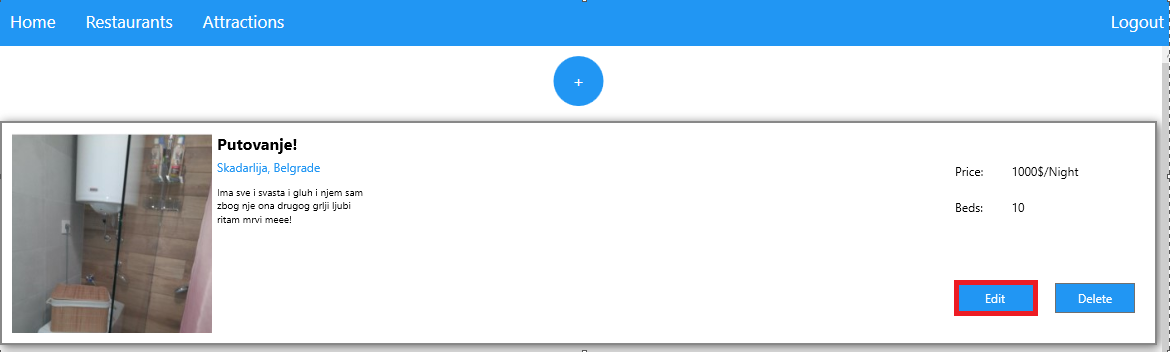
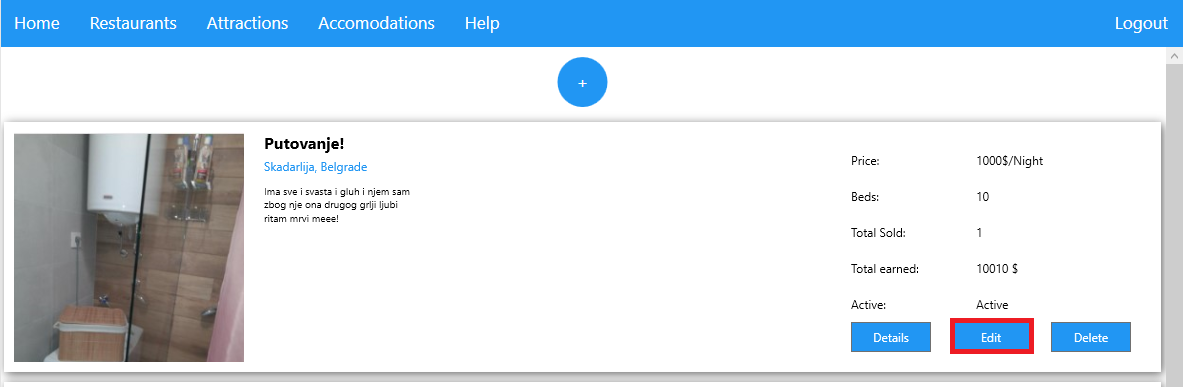
fix: Fixed tooltip annoyance

diff --git a/Help/agenthome.html b/Help/agenthome.html
@@ -55,7 +55,9 @@
                     <li>Start Date</li>
                     <li>End Date</li>
                     <li>Price</li>
-                    <li>Beds</li>
+                    <li>Total sold</li>
+                    <li>Total earned</li>
+                    <li>Active</li>
                 </ul>
                 <div>
                     <img src="Pictures/agenthome_screenshot.png" alt="Agent Home Page" width="700">
@@ -65,13 +67,21 @@
         <li>
             <span class="step-number">2.</span>
             <div>
+                <p>To see details about past ordered trips and statistics of sold attractions and restaurants in them, click on the <strong>Details</strong> button</p>
+                <p>This will open an advanced info window with a map.</p>
+                <img src="Pictures/agenthome_details_button.png" alt="Agent Home Details Button" width="700">
+            </div>
+        </li>
+        <li>
+            <span class="step-number">3.</span>
+            <div>
                 <p>To add a new trip, click on the <strong>Add</strong> button</p>
                 <p>This will open an empty form for adding a new trip.</p>
                 <img src="Pictures/agenthome_add_button.png" alt="Agent Home Add Button" width="700">
             </div>
         </li>
         <li>
-            <span class="step-number">3.</span>
+            <span class="step-number">4.</span>
             <div>
                 <p>To edit a trip, click on the <strong>Edit</strong> button associated with the trip.</p>
                 <p>This will open a form for editing the trip which edit button was clicked on.</p>
@@ -79,7 +89,7 @@
             </div>
         </li>
         <li>
-            <span class="step-number">4.</span>
+            <span class="step-number">5.</span>
             <div>
                 <p>To delete a trip, click on the <strong>Delete</strong> button associated with the trip.</p>
                 <p>This will open a confirmation dialog warning you about the consequences of deletion.</p>

diff --git a/MainWindow.xaml.cs b/MainWindow.xaml.cs
@@ -1,4 +1,3 @@
-
 using HCI.Frames;
 using HCI.Frames.Agemt;
 using HCI.Frames.Client;
@@ -12,7 +11,6 @@ using HCI.Models.Restaurants.Service;
 using HCI.Models.Trips.Model;
 using HCI.Models.Trips.Service;
 using HCI.Models.Users.DTO;
-
 using HCI.Models.Users.Model;
 using HCI.Models.Users.Service;
 using HCI.Navbars;
@@ -43,13 +41,9 @@ namespace HCI
         private ToolTip helpToolTip;
         private DispatcherTimer timer;
 
-
-
-
-
         private User user;
 
-        public MainWindow(IUserService userService, IPictureService pictureService,IAccommodationService accommodationService,ITripService tripService,IAttractionService attractionService,IRestaurantService restaurantService, ILocationService locationService ,IOrderedTripService orderedTripService)
+        public MainWindow(IUserService userService, IPictureService pictureService, IAccommodationService accommodationService, ITripService tripService, IAttractionService attractionService, IRestaurantService restaurantService, ILocationService locationService, IOrderedTripService orderedTripService)
         {
             user = null;
             SetWindowLogo();
@@ -73,8 +67,8 @@ namespace HCI
             contentControl.Navigate(loginForm);
             loginForm.LoginSuccess += LoginForm_LoginSuccess;
             loginForm.RegisterPressed += RegisterClicked;
-
         }
+
         private void SetWindowLogo()
         {
             try
@@ -83,10 +77,8 @@ namespace HCI
                 string assemblyPath = Assembly.GetExecutingAssembly().Location;
                 string solutionPath = Path.GetDirectoryName(Path.GetDirectoryName(Path.GetDirectoryName(assemblyPath)));
 
-
                 DirectoryInfo solutionDirectory = Directory.GetParent(solutionPath);
                 string parentFolderPath = solutionDirectory?.FullName;
-
 
                 string path = Path.Combine(parentFolderPath, logoPath);
 
@@ -103,43 +95,64 @@ namespace HCI
 
         private void MainWindow_MouseMove(object sender, MouseEventArgs e)
         {
-            timer.Stop();
-            timer.Start();
+            if (IsMouseDirectlyOverWindow())
+            {
+                timer.Stop();
+                timer.Start();
+                helpToolTip.IsOpen = false;
+            }
+            else
+            {
+                timer.Stop();
+                helpToolTip.IsOpen = false;
+            }
+        }
 
-            helpToolTip.IsOpen = false;
+        private bool IsMouseDirectlyOverWindow()
+        {
+            Point mousePos = Mouse.GetPosition(this);
+            return (mousePos.X >= 0 && mousePos.X < ActualWidth && mousePos.Y >= 0 && mousePos.Y < ActualHeight);
         }
 
         private void InitializeToolTip()
         {
             helpToolTip = new ToolTip();
-            helpToolTip.Content = "If you need help open the documentation\nUse the F1 key";
+            helpToolTip.Content = "If you need help, open the documentation. Use the F1 key.";
         }
 
         private void InitializeTimer()
         {
             timer = new DispatcherTimer();
-            timer.Interval = TimeSpan.FromSeconds(2);
+            timer.Interval = TimeSpan.FromSeconds(4);
             timer.Tick += Timer_Tick;
         }
 
         private void Timer_Tick(object sender, EventArgs e)
         {
             timer.Stop();
-            helpToolTip.IsOpen = true;
+            if (IsMouseDirectlyOverWindow() && IsActive)
+            {
+                helpToolTip.IsOpen = true;
+            }
+            else
+            {
+                helpToolTip.IsOpen = false;
+            }
         }
 
-        protected override void OnGotFocus(RoutedEventArgs e)
+        protected override void OnActivated(EventArgs e)
         {
-            base.OnGotFocus(e);
+            base.OnActivated(e);
             timer.Start();
         }
 
-        protected override void OnLostFocus(RoutedEventArgs e)
+        protected override void OnDeactivated(EventArgs e)
         {
-            base.OnLostFocus(e);
+            base.OnDeactivated(e);
             timer.Stop();
             helpToolTip.IsOpen = false;
         }
+
         private void LoginForm_LoginSuccess(object sender, LoginSuccessArgs e)
         {
             user = e.User;
@@ -155,8 +168,7 @@ namespace HCI
                 clientNavBar.LogoutClicked += LogoutClicked;
                 navbarViewBox.Visibility = Visibility.Visible;
 
-                contentControl.Navigate(new HomePage(_tripService,_pictureService, _accommodationService,_attractionService, _restaurantService, _orderedTripService,user));
-
+                contentControl.Navigate(new HomePage(_tripService, _pictureService, _accommodationService, _attractionService, _restaurantService, _orderedTripService, user));
             }
             else if (user.Type == UserType.Agent)
             {
@@ -169,16 +181,15 @@ namespace HCI
                 navbarControl.Content = agentNavBar;
                 navbarViewBox.Visibility = Visibility.Visible;
                 contentControl.Navigate(new HomePage(_tripService, _pictureService, _accommodationService, _attractionService, _restaurantService, _orderedTripService, user));
-
             }
         }
 
         private void HistoryClicked(object? sender, EventArgs e)
         {
             NavigateToHistoryClient();
-
         }
-        public void NavigateToHistoryClient ()
+
+        public void NavigateToHistoryClient()
         {
             contentControl.Navigate(new History(_orderedTripService, user));
         }
@@ -186,16 +197,12 @@ namespace HCI
         public void NavigateToHome()
         {
             contentControl.Navigate(new HomePage(_tripService, _pictureService, _accommodationService, _attractionService, _restaurantService, _orderedTripService, user));
-
         }
+
         private void HomeClicked(object sender, EventArgs e)
         {
-            NavigateToHome();   
+            NavigateToHome();
         }
-
-
-
-
 
         private void RegisterClicked(object sender, EventArgs e)
         {
@@ -214,17 +221,17 @@ namespace HCI
 
         public void NavigateToRestaurantsAgent()
         {
-            contentControl.Navigate(new RestaurantPage(_restaurantService,_locationService,_pictureService));
+            contentControl.Navigate(new RestaurantPage(_restaurantService, _locationService, _pictureService));
         }
+
         private void RestaurantClicked(object sender, EventArgs e)
         {
             NavigateToRestaurantsAgent();
-
         }
+
         private void AccomodationsClicked(object sender, EventArgs e)
         {
             NavigateToAccomodationsAgent();
-
         }
 
         public void NavigateToAccomodationsAgent()
@@ -234,13 +241,13 @@ namespace HCI
 
         public void NavigateToAttractionsAgent()
         {
-            contentControl.Navigate(new AttractionPage(_attractionService,_locationService,_pictureService));
+            contentControl.Navigate(new AttractionPage(_attractionService, _locationService, _pictureService));
         }
+
         private void AttractionsClicked(object sender, EventArgs e)
         {
             NavigateToAttractionsAgent();
         }
-
 
         private void LogoutClicked(object sender, EventArgs e)
         {
@@ -258,8 +265,5 @@ namespace HCI
         {
             Application.Current.Shutdown();
         }
-
     }
-
-
 }
